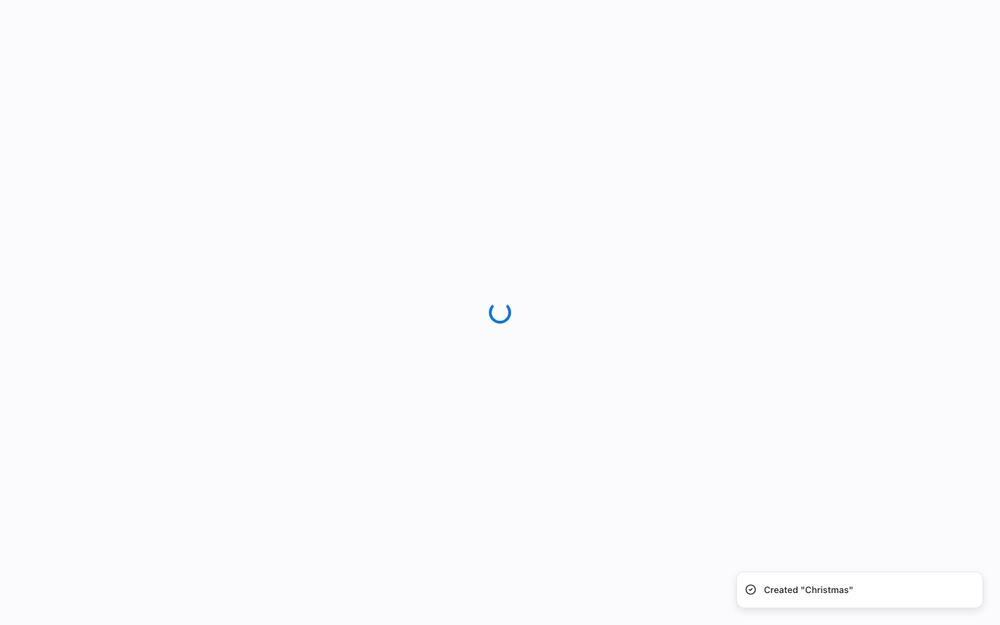
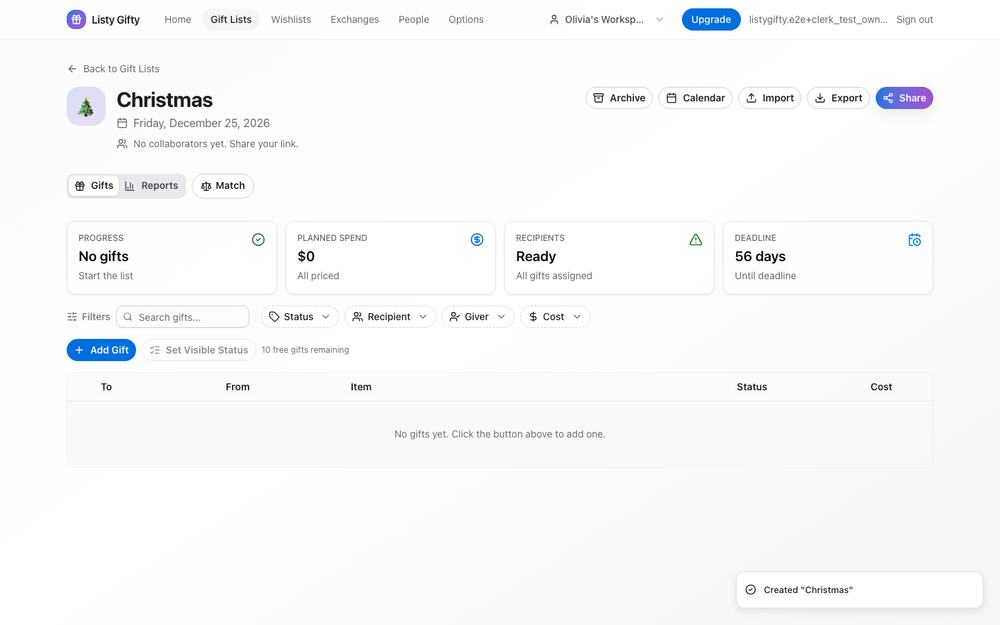
Record the final proof on 4ca2fac and the last tester's findings

diff --git a/docs/ux-audit/site/index.html b/docs/ux-audit/site/index.html
@@ -95,9 +95,9 @@ dialog button { margin-top: 8px; font: 500 14px var(--body); padding: 6px 12px; 
     <h1>Listy Gifty UX Audit</h1>
     <p>On the starting code, only 4 of 20 journey runs passed, all of them gift lists. A new relative lost their invite at sign-up, guests could not open shared links, wishlists had no menu entry, and the exchange page ran off the side of phones. On the final commit, all 20 runs pass at 1440px and 390px in both themes. One privacy fix is live in production. Everything else is on the ux-audit branch and not deployed.</p>
     <div class="counts">
-      <div><b>53</b><span>issues found</span></div>
-      <div><b>33</b><span>fixed</span></div>
-      <div><b>20</b><span>open for you</span></div>
+      <div><b>56</b><span>issues found</span></div>
+      <div><b>34</b><span>fixed</span></div>
+      <div><b>22</b><span>open for you</span></div>
     </div>
   </div>
   <nav aria-label="Sections">
@@ -120,7 +120,7 @@ dialog button { margin-top: 8px; font: 500 14px var(--body); padding: 6px 12px; 
     <td class="chips"><span class="chip pass" title="desktop festive: pass" aria-label="desktop festive: pass">✓</span><span class="chip pass" title="desktop apple: pass" aria-label="desktop apple: pass">✓</span><span class="chip pass" title="mobile festive: pass" aria-label="mobile festive: pass">✓</span><span class="chip pass" title="mobile apple: pass" aria-label="mobile apple: pass">✓</span></td>
     <td class="num">40/40</td><td class="num">40/40</td>
     <td class="num">21</td><td class="num">21</td>
-    <td class="num">6s</td><td class="num">5s</td>
+    <td class="num">6s</td><td class="num">6s</td>
     <td class="num">0</td><td class="num">0</td>
     <td class="num">6</td><td class="num">0</td>
   </tr><tr>
@@ -162,10 +162,10 @@ dialog button { margin-top: 8px; font: 500 14px var(--body); padding: 6px 12px; 
   </tr><tr>
     <th scope="row">Unhappy paths</th>
     <td class="chips"><span class="chip fail" title="desktop festive: fail" aria-label="desktop festive: fail">✕</span><span class="chip fail" title="desktop apple: fail" aria-label="desktop apple: fail">✕</span><span class="chip fail" title="mobile festive: fail" aria-label="mobile festive: fail">✕</span><span class="chip fail" title="mobile apple: fail" aria-label="mobile apple: fail">✕</span></td>
-    <td class="chips"><span class="chip fail" title="desktop festive: fail" aria-label="desktop festive: fail">✕</span><span class="chip fail" title="desktop apple: fail" aria-label="desktop apple: fail">✕</span><span class="chip fail" title="mobile festive: fail" aria-label="mobile festive: fail">✕</span><span class="chip fail" title="mobile apple: fail" aria-label="mobile apple: fail">✕</span></td>
-    <td class="num">28/64</td><td class="num">60/64</td>
+    <td class="chips"><span class="chip pass" title="desktop festive: pass" aria-label="desktop festive: pass">✓</span><span class="chip pass" title="desktop apple: pass" aria-label="desktop apple: pass">✓</span><span class="chip pass" title="mobile festive: pass" aria-label="mobile festive: pass">✓</span><span class="chip pass" title="mobile apple: pass" aria-label="mobile apple: pass">✓</span></td>
+    <td class="num">28/64</td><td class="num">64/64</td>
     <td class="num">12</td><td class="num">12</td>
-    <td class="num">116s</td><td class="num">30s</td>
+    <td class="num">116s</td><td class="num">20s</td>
     <td class="num">4</td><td class="num">0</td>
     <td class="num">7</td><td class="num">0</td>
   </tr><tr>
@@ -537,6 +537,17 @@ dialog button { margin-top: 8px; font: 500 14px var(--body); padding: 6px 12px; 
       <div><dt>Commit</dt><dd><a class="hash" href="https://github.com/kent/listygifty/commit/605d575">605d575</a> <a class="hash" href="https://github.com/kent/listygifty/commit/25200ad">25200ad</a></dd></div>
     </dl>
     
+  </article><article class="decision" data-journey="Exchange" data-severity="2" id="form-drafts">
+    <header><span class="sev s2">Severity 2</span><h3>Refreshing a half-filled form lost it</h3></header>
+    <dl>
+      <div><dt>Problem</dt><dd>New exchange and new wishlist forms started blank after a refresh or a trip back, so anything typed was gone.</dd></div>
+      <div><dt>Repro</dt><dd>Type a name into the new exchange form, then refresh the page.</dd></div>
+      <div><dt>Evidence</dt><dd>The unhappy path failed this step in all four runs, and the new tests failed on the old code.</dd></div>
+      <div><dt>Change and why</dt><dd>A draft now stays in this tab until the form is submitted. Drafts clear on sign-out, so nothing typed stays behind on a shared laptop.</dd></div>
+      <div><dt>Heuristic</dt><dd>Error prevention</dd></div>
+      <div><dt>Commit</dt><dd><a class="hash" href="https://github.com/kent/listygifty/commit/4ca2fac">4ca2fac</a></dd></div>
+    </dl>
+    <div class="pair"><figure class="shot"><button type="button" class="zoom" data-full="img/before-desktop-apple-u1-unhappy-paths-06-going-back-mid-form-keeps-a-new-exchange-from-vanishing-sile.jpg" aria-label="Enlarge: Before: Refreshing a half-filled form lost it"><img src="img/before-desktop-apple-u1-unhappy-paths-06-going-back-mid-form-keeps-a-new-exchange-from-vanishing-sile.jpg" alt="Before: Refreshing a half-filled form lost it" loading="lazy"></button><figcaption>Before · desktop-apple</figcaption></figure><figure class="shot"><button type="button" class="zoom" data-full="img/after-desktop-apple-u1-unhappy-paths-06-going-back-mid-form-keeps-a-new-exchange-from-vanishing-sile.jpg" aria-label="Enlarge: After: Refreshing a half-filled form lost it"><img src="img/after-desktop-apple-u1-unhappy-paths-06-going-back-mid-form-keeps-a-new-exchange-from-vanishing-sile.jpg" alt="After: Refreshing a half-filled form lost it" loading="lazy"></button><figcaption>After · desktop-apple</figcaption></figure></div>
   </article><article class="decision" data-journey="Exchange" data-severity="1" id="console-noise">
     <header><span class="sev s1">Severity 1</span><h3>Participants triggered a failed request on every visit</h3></header>
     <dl>
@@ -557,6 +568,11 @@ dialog button { margin-top: 8px; font: 500 14px var(--body); padding: 6px 12px; 
     <header><span class="sev s3">Severity 3</span><h3>Decide whether to look for past damage</h3></header>
     <p>Two bugs may already have affected real people. Shared wishlist links exposed claimer details until October 30, 2026, and the Match screen's edit dialog could remove recipients and givers from gifts. Fixing them doesn't tell you what already happened, and I did not look at production data.</p>
     <p class="rec"><strong>Recommendation.</strong> Check the request logs for /w/ links, and use the gift_changes table to find gifts that lost people through that dialog. Decide on any notice to users once you know the scale.</p>
+    
+  </article><article class="open" id="clerk-signin-hang">
+    <header><span class="sev s3">Severity 3</span><h3>Sign-in sometimes hangs after the code is accepted</h3></header>
+    <p>Now and then, Clerk's own form shows Success and then sits on a spinner at /login/factor-one, logging needs_first_factor not supported yet. The server reports the sign-in as complete. It happened in about 1 in 6 repro sign-ins for some accounts, and once in the final run, where a retry passed. Clerk's dev API was rejecting requests around the same time, so it may only affect dev. I couldn't confirm that, and I couldn't test whether a reload recovers.</p>
+    <p class="rec"><strong>Recommendation.</strong> Sign in repeatedly on production and on a real phone. If it reproduces, upgrade the Clerk packages and raise it with Clerk.</p>
     
   </article><article class="open" id="reply-address">
     <header><span class="sev s3">Severity 3</span><h3>Replies to invite emails go nowhere</h3></header>
@@ -609,14 +625,9 @@ dialog button { margin-top: 8px; font: 500 14px var(--body); padding: 6px 12px; 
     <p class="rec"><strong>Recommendation.</strong> Add a replace-one-person flow that only changes the two affected people, and tell the person removed.</p>
     
   </article><article class="open" id="owner-share-spoiler">
-    <header><span class="sev s2">Severity 2</span><h3>Opening your own share link shows what's claimed</h3></header>
-    <p>Anti-spoiler now holds on your wishlist page, but your public link has to show real status so guests don't double up, and that page doesn't know who you are.</p>
-    <p class="rec"><strong>Recommendation.</strong> Show a notice on the share dialog saying your own link will show claims. Recognizing the signed-in owner on that page can come later.</p>
-    
-  </article><article class="open" id="form-drafts">
-    <header><span class="sev s2">Severity 2</span><h3>Refreshing a half-filled form loses it</h3></header>
-    <p>New exchange and new wishlist forms start blank after a refresh or a back and forward. The forms are short, and saving drafts is new behaviour.</p>
-    <p class="rec"><strong>Recommendation.</strong> Leave it for now. Revisit it if the hallway test shows people losing work.</p>
+    <header><span class="sev s3">Severity 3</span><h3>Opening your own share link reveals what was claimed</h3></header>
+    <p>Anti-spoiler now holds on your wishlist page, but your public link must show real status so guests don't double up, and that page treats you as a guest. The final first-time tester opened their own link while signed in, saw a green Claimed badge, and now knew what they were getting. The page also offered them Claim This on their own list.</p>
+    <p class="rec"><strong>Recommendation.</strong> Have the page recognize a signed-in owner and hide claims, with a notice in the meantime on the share dialog saying your link shows claims.</p>
     
   </article><article class="open" id="reinvite-declined">
     <header><span class="sev s2">Severity 2</span><h3>A declined invite can't be sent again from the page</h3></header>
@@ -652,6 +663,16 @@ dialog button { margin-top: 8px; font: 500 14px var(--body); padding: 6px 12px; 
     <header><span class="sev s2">Severity 2</span><h3>Settings opens with developer tools</h3></header>
     <p>Settings leads with Your MCP OAuth URL, above the person's profile. That means nothing to most families. The tester also found Vendors, Partners and Investors in People, and Upgrade on every page while Billing says Soon.</p>
     <p class="rec"><strong>Recommendation.</strong> Lead Settings with profile and notifications, and move MCP to an Integrations section. Hide business categories in personal workspaces.</p>
+    
+  </article><article class="open" id="live-updates">
+    <header><span class="sev s2">Severity 2</span><h3>Pages don't update when other people act</h3></header>
+    <p>The final tester's organizer page stayed at 1/5 joined after everyone had joined, and Publish appeared only after a manual refresh. The email said people had joined, but the page didn't.</p>
+    <p class="rec"><strong>Recommendation.</strong> Refresh the exchange when the tab regains focus, then consider live updates over the existing ActionCable connection.</p>
+    
+  </article><article class="open" id="home-counts">
+    <header><span class="sev s2">Severity 2</span><h3>Home's checklist doesn't refresh</h3></header>
+    <p>Found in the last validation pass, after the proof was finished, so it wasn't changed. The checklist showed Add people 0/3 and Capture gifts 0/5 after adding 2 and 1, and a full refresh corrected it. It's an objective bug, not a product call, but fixing it would have invalidated the final proof.</p>
+    <p class="rec"><strong>Recommendation.</strong> Fix it in the next pass by refreshing the bootstrap data when returning to Home.</p>
     
   </article></div>
   </section>
@@ -752,16 +773,16 @@ dialog button { margin-top: 8px; font: 500 14px var(--body); padding: 6px 12px; 
   </section>
   <section id="fresh">
     <h2>Fresh eyes</h2>
-    <p>A fresh agent acted as a first-time user. It had no knowledge of this audit and could only look at pages, click, type and read its email. It was told not to read any code, though nothing technically prevented it. It passed all five tasks on commit 149d47a, before the dashboard date fix. A full disk on the test machine interrupted it during Task 2. That wasn't a site bug, and the agent resumed where it stopped.</p>
-    <div class="tablewrap"><table class="plain"><thead><tr><th scope="col">Task</th><th scope="col">Result</th><th scope="col">Notes</th></tr></thead><tbody><tr><th scope="row">Manage gift lists</th><td><span class="pass-word">Pass</span></td><td>Finished. The first gift took 2 tries, because the test tool hit the Next.js dev badge.</td></tr><tr><th scope="row">Run an exchange</th><td><span class="pass-word">Pass</span></td><td>Five sessions joined from real emails. Nobody drew themselves, the couple's rule held, and Olivia could not find who drew her.</td></tr><tr><th scope="row">Log in and out</th><td><span class="pass-word">Pass</span></td><td>Five presses of Back all landed on sign-in, and nothing private showed.</td></tr><tr><th scope="row">Navigate</th><td><span class="pass-word">Pass</span></td><td>Found everything from the menu, and the /oops page explained itself.</td></tr><tr><th scope="row">Wishlist</th><td><span class="pass-word">Pass</span></td><td>A guest on a phone reserved an item with no account, and the owner saw no spoiler.</td></tr></tbody></table></div>
-    <h3>Stumbles</h3><ul><li>Annoying: the Christmas list said Deadline: Today. This is now fixed.</li><li>Annoying: Save &amp; Add Another kept Maya, so Dad's gift went to both of them.</li><li>Annoying: marking a gift Purchased left Progress at 0% complete.</li><li>Annoying: the page says Draw names, but the button says Publish Exchange, which sounded like making it public.</li><li>Annoying: the invite knew Nana's email, but sign-up was empty, so Nana typed everything on a phone.</li><li>Annoying: Home never mentions the exchange, and Dec 25 isn't in Upcoming Dates.</li><li>Annoying: Settings opens with an MCP OAuth URL above the profile.</li><li>Possibly the test browser: Copy link said Failed to copy link. The scripted journeys copied successfully.</li><li>Minor: nothing shows that a gift name can be clicked to edit it, and the box stayed open after pressing Enter on a rename, though it had saved.</li><li>Minor: the Who is it for? dropdown stays open and covers the Status buttons.</li><li>Minor: the Recipients card shows a warning triangle beside Ready, and the 10 free gifts limit was a surprise.</li><li>Minor: Sign In or Sign Up is a guess for an invited relative.</li><li>Minor: Exclusion Rules has no add button until a second person is added, and 1 joined so far sits above five names.</li><li>Minor: your match appears on the page right after the draw, with no reveal step, so anyone nearby can see it.</li><li>Minor: the anonymous ask for ideas sends on one tap, with no confirmation.</li><li>Minor: the phone header takes a big chunk of the screen, and exchange relatives never appear in People.</li><li>Minor: there's no signed-out message, the 404 page has no main menu, and the menu says Options while the page says Settings.</li><li>Minor: the cousin's claim button is a small gift icon with no word.</li><li>Confusing overall: the F-key labels, Workspace for one person, Set Visible Status, what Match does, and Enter Start free.</li><li>Liked: the retro look, two-step gift adding, near-effortless exchange setup, the invite email's voice, returning to the invite after sign-up, and You're in. Waiting for Olivia to draw names.</li></ul>
+    <p>Two separate fresh agents acted as first-time users. Neither knew about this audit, and each could only look at pages, click, type and read its email. Both were told not to read any code, though nothing technically prevented it. The first passed all five tasks on 149d47a and found the dashboard date bug. After that fix and the form draft fix, a brand-new agent passed all five tasks on the final commit, 4ca2fac. The results below are from the final agent, with earlier stumbles that still apply.</p>
+    <div class="tablewrap"><table class="plain"><thead><tr><th scope="col">Task</th><th scope="col">Result</th><th scope="col">Notes</th></tr></thead><tbody><tr><th scope="row">Manage gift lists</th><td><span class="pass-word">Pass</span></td><td>One try. One click made a correctly dated Christmas list.</td></tr><tr><th scope="row">Run an exchange</th><td><span class="pass-word">Pass</span></td><td>One try. Five sessions joined from real emails, the couple's rule held, and nothing showed who drew Olivia.</td></tr><tr><th scope="row">Log in and out</th><td><span class="pass-word">Pass</span></td><td>One try. Back landed on sign-in all three times, and nothing private showed.</td></tr><tr><th scope="row">Navigate</th><td><span class="pass-word">Pass</span></td><td>One try. Everything was in the menu, and /oops showed Page not found with a way home.</td></tr><tr><th scope="row">Wishlist</th><td><span class="pass-word">Pass</span></td><td>One try. A guest reserved an item with no account. Olivia's own page hid the claim, but her share link showed it.</td></tr></tbody></table></div>
+    <h3>Stumbles</h3><ul><li>Most serious: opening your own share link while signed in showed a green Claimed badge, which spoils the surprise. Logged as severity 3 under Your calls.</li><li>Annoying: the organizer's page stayed at 1/5 joined until a manual refresh, and Publish appeared only then.</li><li>Annoying: Save &amp; Add Another carried Maya onto Dad's gift.</li><li>Annoying: marking a gift Purchased left Progress at 0%.</li><li>Annoying: Home's checklist showed 0/3 and 0/5 until a full refresh.</li><li>Annoying: Nana's sign-up didn't fill in the invited email, so Nana typed four fields on a phone.</li><li>Annoying: Settings opens with an MCP OAuth URL above the profile.</li><li>Annoying: People doesn't list the relatives from an exchange.</li><li>Minor: the page says Draw names, but the button says Publish Exchange. After sign-up, Nana still had to press Join, right beside Decline.</li><li>Minor: on a phone the menu shows no Home button at first and cuts off an item, and the header takes about a sixth of the screen.</li><li>Minor: the person picker stays open and covers the Status buttons, and the rename box stays open after Enter, though it saved.</li><li>Minor: the menu says Options while the page says Settings, the F-key labels run out of order, and People shows Vendors and Investors in a family app.</li><li>Minor: Wishlists said No Wishlists Yet though the exchange has a My Wishlist, and the page says 1 items.</li><li>Minor: the guest's claim button on a phone is only a gift icon.</li><li>Confusing overall: Gift Lists, Wishlists and exchange wishlists are three separate things, Olivia sees her match right after publishing while everyone else gets an email, and What Match does, what Workspace means and whether the free gift limit is per list were all unclear.</li><li>Liked: a correctly dated list in one click, the prefilled Family Christmas form, the simple exclusion rule dialog, the funny invite and match emails, the anonymous ask, and warnings before Delete and Reveal.</li></ul>
   </section>
   <section id="limits">
     <h2>Proof and limits</h2>
     <h3>Verified</h3>
-    <ul><li>Journeys: 20 of 20 runs pass on commit b6543b5, up from 4 of 20 on the starting code. That covers 1440px and 390px in Festive and Apple. Retries were allowed once and no journey needed one.</li><li>Accessibility: axe found serious or critical problems on 15 routes before and none after, in every journey run on the final commit. A separate sweep of 20 routes ran 124 audits per project on 918d766.</li><li>Keyboard: the keyboard-only passes of journeys 2 and 5 pass in both themes.</li><li>Unhappy paths: 15 of 16 checks pass in all four runs. The one failure is refreshing a half-filled form, which is logged under Your calls.</li><li>The draw: 1,000 random groups and exclusions, plus up to 100 redraws, checked against a brute-force oracle. Nobody drew themselves, everyone gave and received once, and every exclusion held.</li><li>Secrecy: in every Journey 2 run, no API response any participant's browser received, and no post-draw email, revealed who drew them.</li><li>Email: all 15 email types reached local Mailpit through real SMTP, each with text and HTML parts and correct links. Every address was @example.com, and no real email was sent.</li><li>Database: Journey 2 confirms the saved draw is valid, and no background job failed.</li><li>Test suites on b6543b5: bin/local-preview e2e passed 6 of 6, Rails passed 620 runs with 0 failures, and npm test passed 7 of 7 tasks including 292 web tests.</li><li>Dashboard date fix: confirmed in a real browser. A Christmas list started from Home now reads Friday, December 25, 2026, with 56 days to the deadline.</li><li>Production: the privacy fix deployed as f6fb256. The API and web services report that image, the deploy smoke tests passed, and health checks return 200.</li></ul>
+    <ul><li>Journeys: 20 of 20 runs pass on commit 4ca2fac, up from 4 of 20 on the starting code. That covers 1440px and 390px in Festive and Apple. One run, Log in and out on mobile Festive, needed its one allowed retry after the Clerk sign-in hang listed below.</li><li>Accessibility: axe found serious or critical problems on 15 routes before and none after, in every journey run on the final commit. A separate sweep of 20 routes ran 124 audits per project on 918d766.</li><li>Keyboard: the keyboard-only passes of journeys 2 and 5 pass in both themes.</li><li>Unhappy paths: 16 of 16 checks pass in all four runs, including refresh mid-form, reused and made-up invites, signing in with a different email, an invitee who never joins, dropout through Redo, impossible rules, minimum group size, empty states and logged-out deep links.</li><li>The draw: 1,000 random groups and exclusions, plus up to 100 redraws, checked against a brute-force oracle. Nobody drew themselves, everyone gave and received once, and every exclusion held.</li><li>Secrecy: in every Journey 2 run, no API response any participant's browser received, and no post-draw email, revealed who drew them.</li><li>Email: all 15 email types reached local Mailpit through real SMTP, each with text and HTML parts and correct links. Every address was @example.com, and no real email was sent.</li><li>Database: Journey 2 confirms the saved draw is valid, and no background job failed.</li><li>Test suites on 4ca2fac: bin/local-preview e2e passed 6 of 6, Rails passed 620 runs with 0 failures, and npm test passed 7 of 7 tasks including 298 web tests.</li><li>Dashboard date fix: confirmed in a real browser and by the final tester. A Christmas list started from Home now reads Friday, December 25, 2026.</li><li>Production: the privacy fix deployed as f6fb256. The API and web services report that image, the deploy smoke tests passed, and health checks return 200.</li></ul>
     <h3>Not verified</h3>
-    <ul><li>Everything except the privacy fix is undeployed. The Match screen data-loss fix is on this branch and not in production.</li><li>The privacy fix was not checked against a real shared wishlist in production, because that means touching production data. The proof is the test, which fails on the old code, plus the deployed version.</li><li>Real email delivery was not tested. Mail stopped at Mailpit by instruction, so Postmark, spam placement and real inboxes are unverified.</li><li>Apple, Google, Facebook and LinkedIn sign-in were not tested. Only email codes were.</li><li>Clerk's human check is bypassed in test mode, so what a real relative sees at that step is unknown.</li><li>Phone means Chromium at 390px with touch emulation. No real iPhone, iOS Safari or Android device was used.</li><li>Time in the scoreboard is robot time on a local dev server, so it says nothing about real load speed or real people.</li><li>Intermittent: about 1 in 14 phone runs had an automated tap land on the wrong element. It didn't happen in the final run and the cause is unknown.</li><li>Intermittent: Clerk's sign-in form hung in some repro runs after accepting a code. The server reported success, and Clerk's dev API was failing requests at the time. Reload recovery couldn't be tested, and I don't know whether production is affected.</li><li>Axe can't score text on gradients and left thousands of nodes incomplete. Gradient stops were checked by calculation. Sampled items looked like false positives, but not all of them were reviewed.</li><li>Error pages were never rendered in an axe run, and /settings was audited in its default section only.</li><li>Known gaps left open: two quick picks in the Match dialog can overlap and the last save wins. Manage Group can't be opened by keyboard. The MCP share_holiday tool replaces the link on every call.</li><li>The first baseline had script mistakes on Festive and phones. Those journeys were fixed and rerun on the frozen starting code, so the before numbers are fair. The baseline also includes the local Clerk redirect setting, to match production.</li><li>Competitor research: Reddit refused automated reading, Google Play coverage was thin, and mention counts show how often something came up, not how common it is. Status notes on the feature list come from reading code.</li><li>GitHub reports 28 dependency vulnerabilities on the default branch, 1 of them critical. They were outside this audit and were not reviewed.</li><li>The fresh agent ran on 149d47a, before the dashboard date fix, and its no-code rule was an instruction, not a technical block. It isn't a real person, so run the hallway test too.</li><li>Disk space ran out during testing and crashed Docker once. It only interrupted the fresh agent's run, and no final results came from that session.</li></ul>
+    <ul><li>Everything except the privacy fix is undeployed. The Match screen data-loss fix is on this branch and not in production.</li><li>The privacy fix was not checked against a real shared wishlist in production, because that means touching production data. The proof is the test, which fails on the old code, plus the deployed version.</li><li>Real email delivery was not tested. Mail stopped at Mailpit by instruction, so Postmark, spam placement and real inboxes are unverified.</li><li>Apple, Google, Facebook and LinkedIn sign-in were not tested. Only email codes were.</li><li>Clerk's human check is bypassed in test mode, so what a real relative sees at that step is unknown.</li><li>Phone means Chromium at 390px with touch emulation. No real iPhone, iOS Safari or Android device was used.</li><li>Time in the scoreboard is robot time on a local dev server, so it says nothing about real load speed or real people.</li><li>Intermittent: about 1 in 14 phone runs had an automated tap land on the wrong element. It didn't happen in the final run and the cause is unknown.</li><li>Axe can't score text on gradients and left thousands of nodes incomplete. Gradient stops were checked by calculation. Sampled items looked like false positives, but not all of them were reviewed.</li><li>Error pages were never rendered in an axe run, and /settings was audited in its default section only.</li><li>Known gaps left open: two quick picks in the Match dialog can overlap and the last save wins. Manage Group can't be opened by keyboard. The MCP share_holiday tool replaces the link on every call.</li><li>The first baseline had script mistakes on Festive and phones. Those journeys were fixed and rerun on the frozen starting code, so the before numbers are fair. The baseline also includes the local Clerk redirect setting, to match production.</li><li>Competitor research: Reddit refused automated reading, Google Play coverage was thin, and mention counts show how often something came up, not how common it is. Status notes on the feature list come from reading code.</li><li>GitHub reports 28 dependency vulnerabilities on the default branch, 1 of them critical. They were outside this audit and were not reviewed.</li><li>Disk space ran out during testing and crashed Docker once. It only interrupted the fresh agent's run, and no final results came from that session.</li><li>Fresh agents are not real people. Their no-code rule was an instruction, not a technical block, and the final agent made one curl status check outside the rules while diagnosing a test setup error.</li></ul>
   </section>
 </div>
 <dialog id="lightbox" aria-label="Enlarged screenshot"><img id="lightbox-image" alt=""><form method="dialog"><button type="submit">Close</button></form></dialog>
